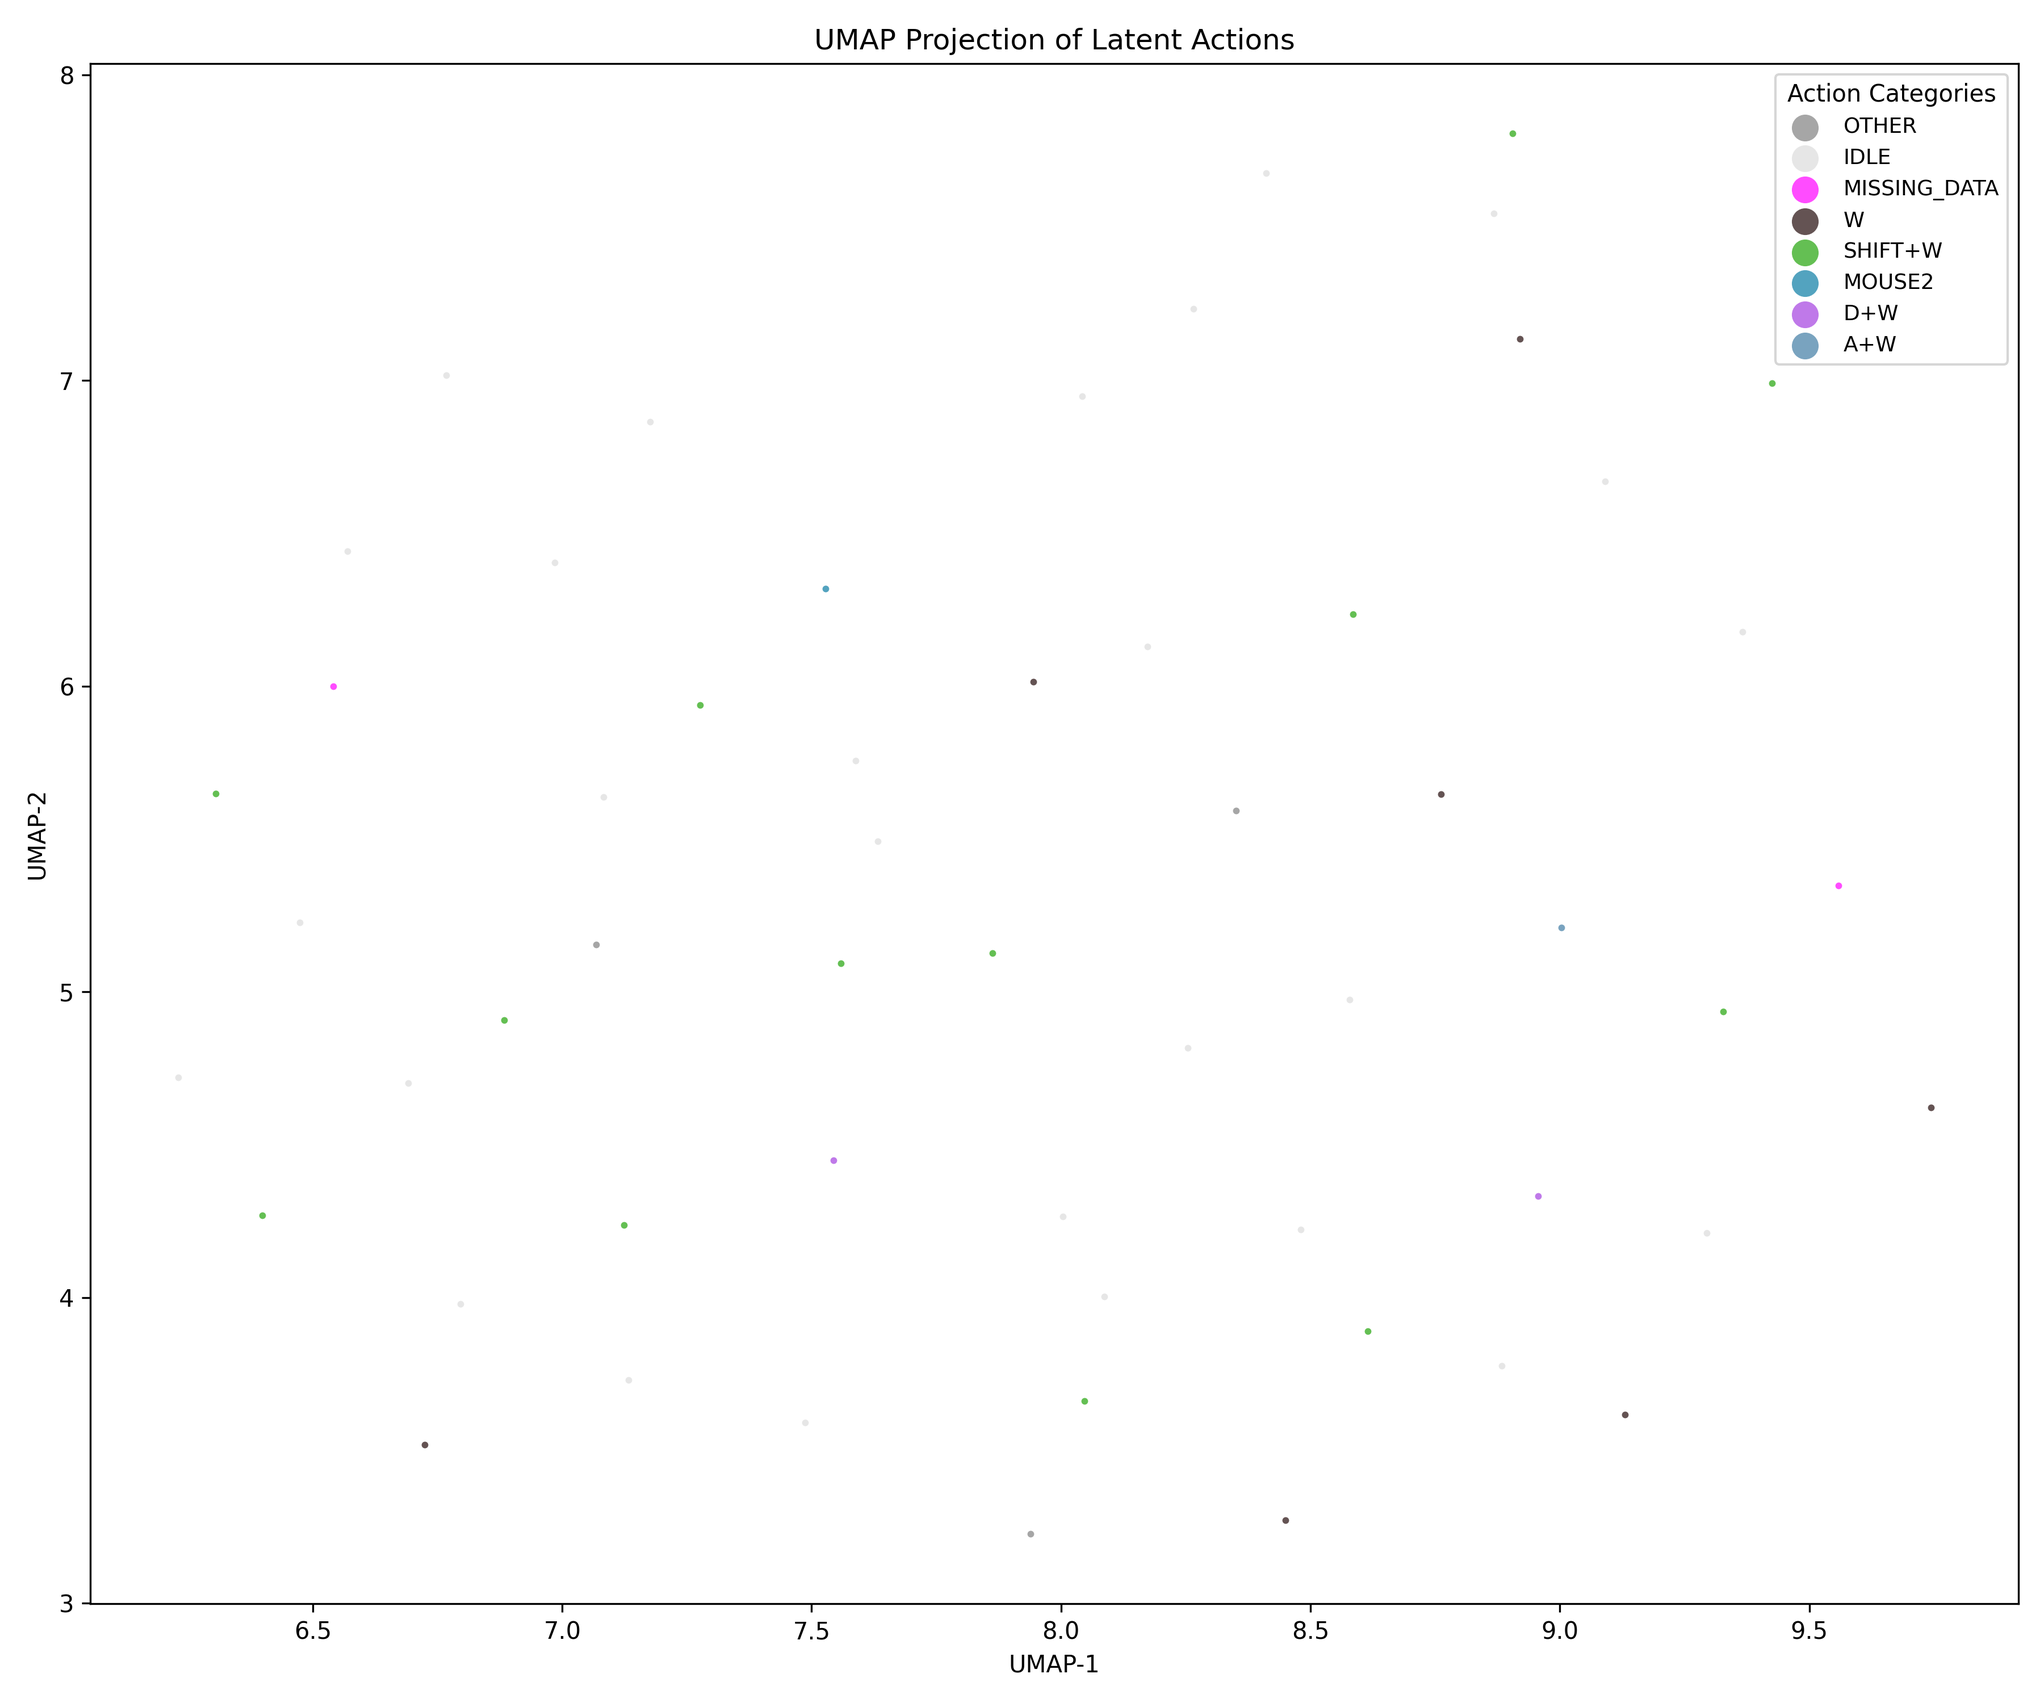
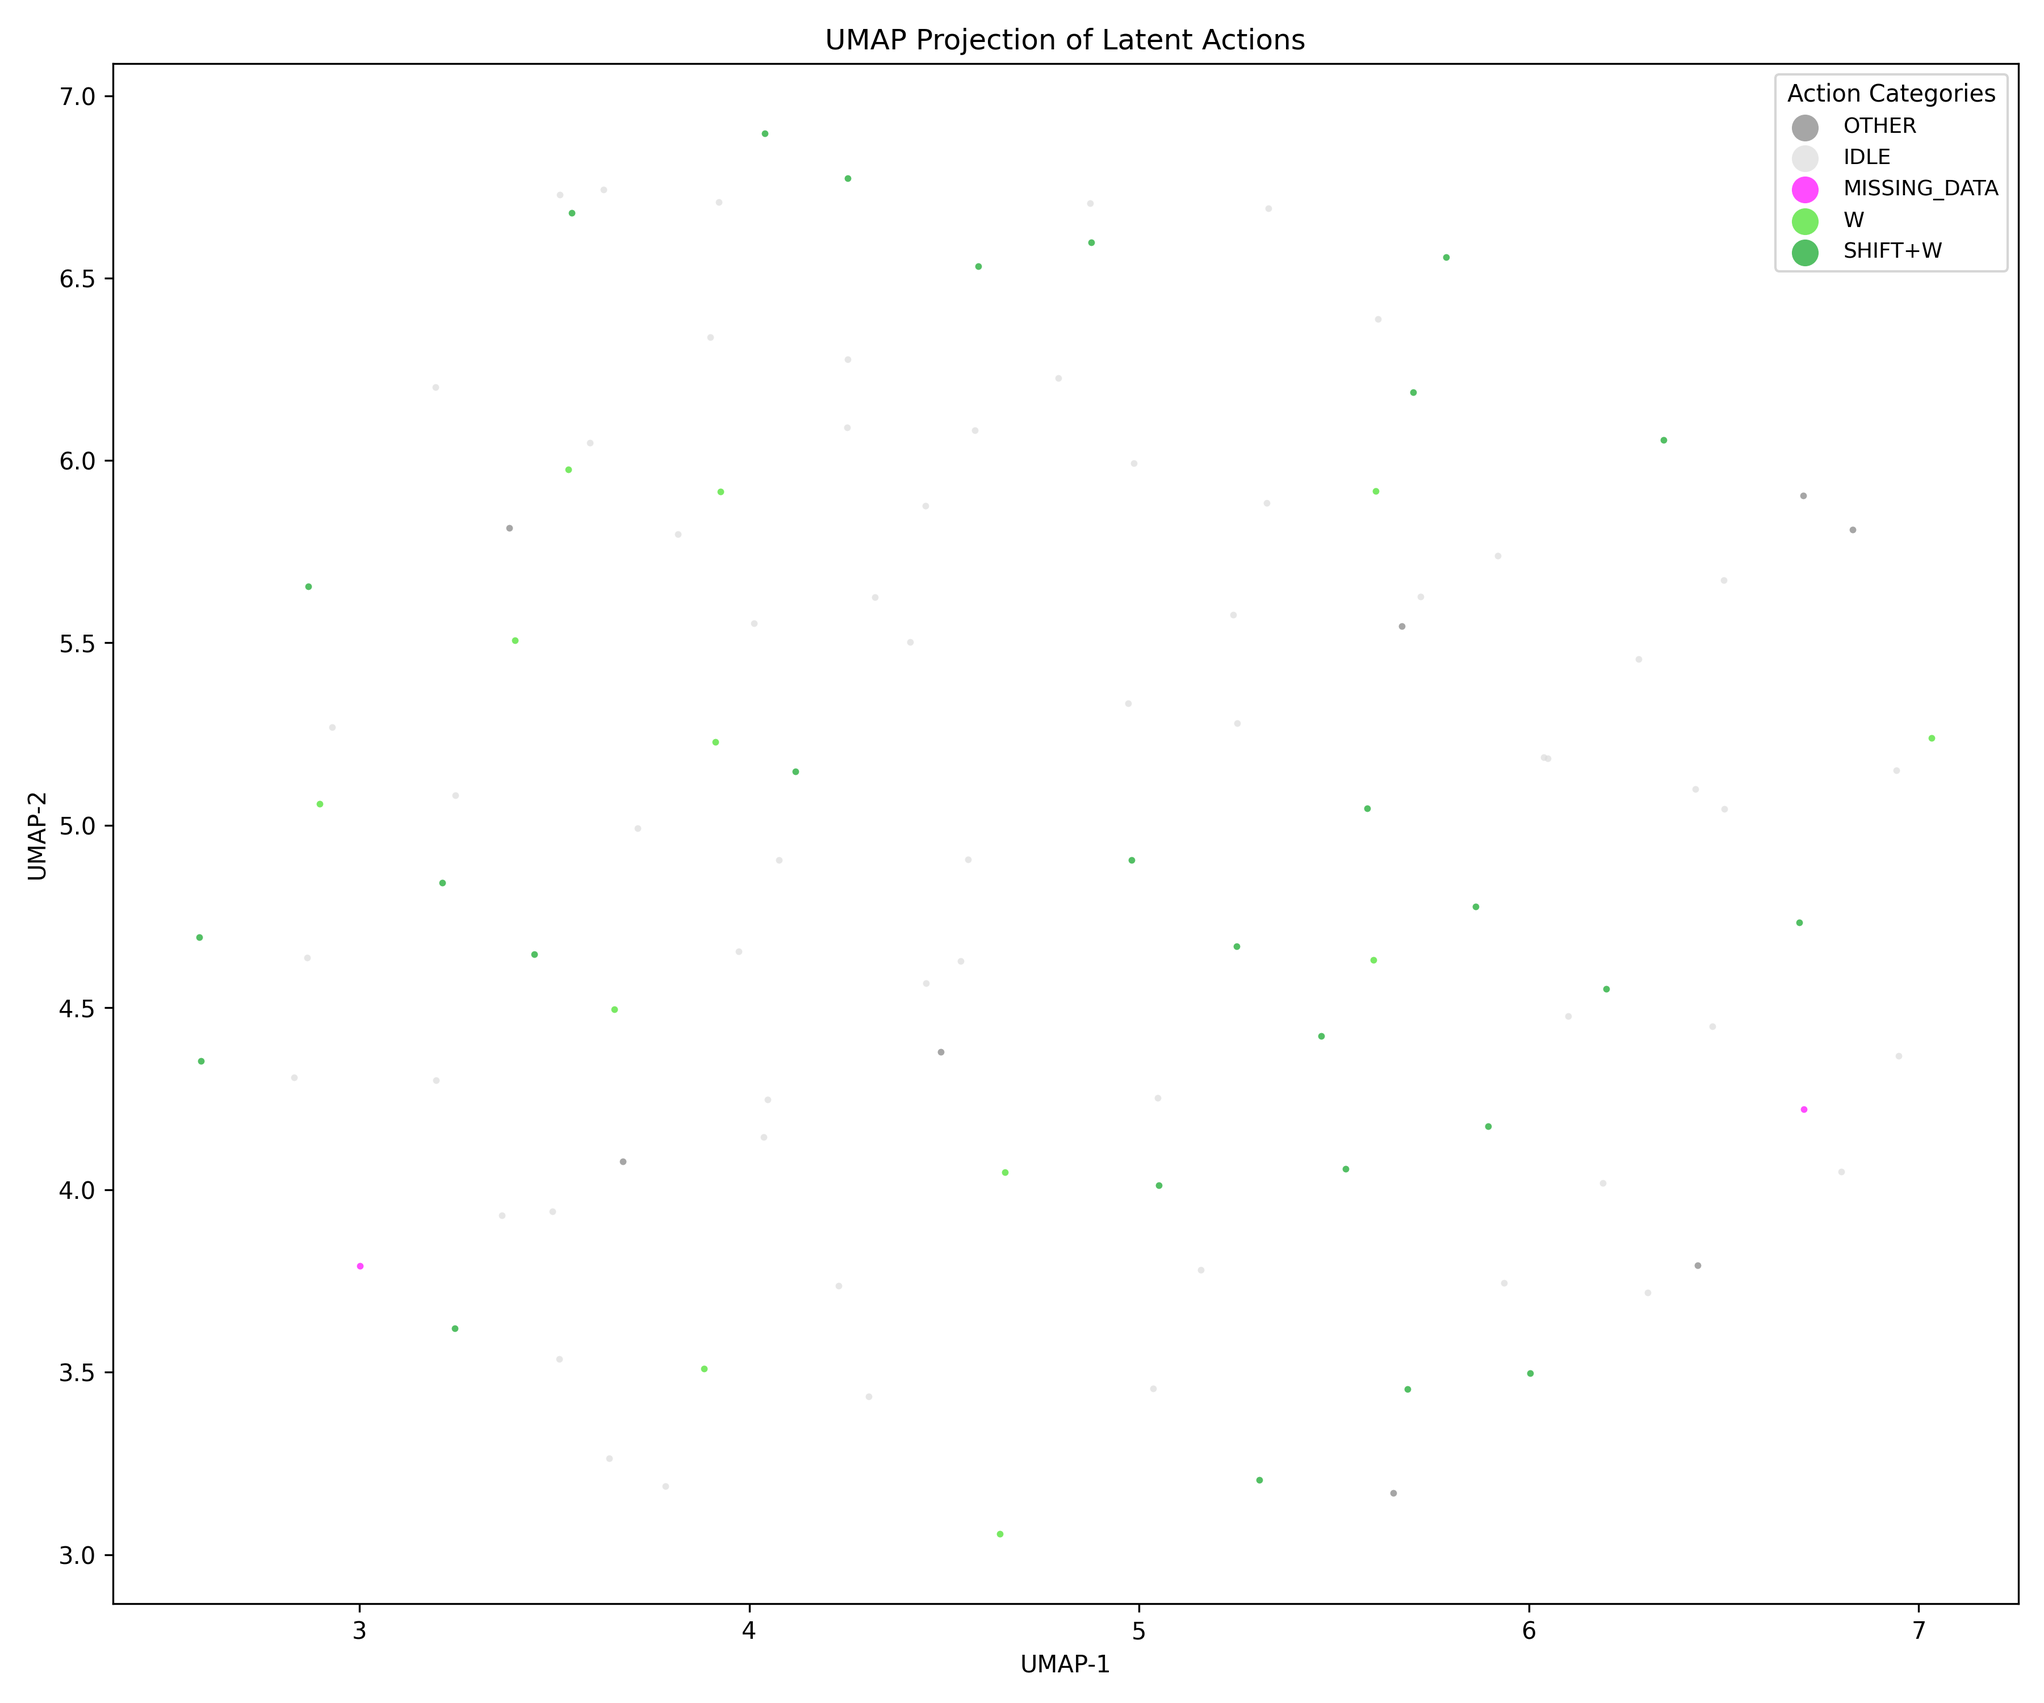
1x

diff --git a/latent_action_models/trainers/train.py b/latent_action_models/trainers/train.py
@@ -207,7 +207,7 @@ class Trainer_LatentActionModel(BaseTrainer):
             if self.should_log:      self.log_step(info)
             if self.should_save:     self.save_checkpoint(self.ckpt_dir / self.save_path)
             if self.should_validate: 
-                try: self.validate()
+                try: self.validate_simple()
                 except Exception as e:
                     print(f'Validation failed')
                     import traceback
@@ -224,6 +224,83 @@ class Trainer_LatentActionModel(BaseTrainer):
 
         self.save_checkpoint(self.ckpt_dir / self.save_path)
         return
+
+    @torch.no_grad()
+    def validate_simple(self) -> None:
+        model: LatentActionModel    = self._model_unwrapped()
+        num_samples_umap            = self.cfg.val_num_samples_umap
+        num_samples_recon           = self.cfg.val_num_samples_recon
+
+        # -- Simplified data collection --
+        num_processed_umap_samples  = 0
+        _more_umap = lambda: num_processed_umap_samples < num_samples_umap
+        num_processed_recon_samples = 0
+        _more_recon = lambda: num_processed_recon_samples < num_samples_recon
+        
+        latent_actions_list_bn1d = []
+        recon_videos_list_bnchw = []
+
+        while _more_umap() or _more_recon():
+            # REMOVED: No longer need paths or start indices from the batch
+            video_bnchw, _, _ = self.format_batch()
+            
+            if _more_umap():
+                action_info = model.encode_to_actions(video_bnchw)
+                latent_actions_list_bn1d.append(action_info['mean_bn1d'])
+                num_umap_samples_in_batch = action_info['mean_bn1d'].shape[0] * action_info['mean_bn1d'].shape[1]
+                num_processed_umap_samples += num_umap_samples_in_batch
+
+            if _more_recon():
+                recon_videos_list_bnchw.append(video_bnchw[:num_samples_recon, ::])
+                num_recon_samples_in_batch = video_bnchw.shape[0]
+                num_processed_recon_samples += num_recon_samples_in_batch
+
+        print(f"[rank {self.rank}] validation data collected")
+
+        if self._wandb_enabled:
+            # -- Gather tensors from all GPUs --
+            latent_actions_n1d = torch.cat(latent_actions_list_bn1d, dim=0)
+            latent_actions_n1d = gather_to_rank(latent_actions_n1d, dst=0, dim=0, cat=True)
+
+            recon_videos_bnchw = torch.cat(recon_videos_list_bnchw, dim=0)
+            lam_outputs = model.forward(recon_videos_bnchw)
+            condition_video_bnchw = gather_to_rank(lam_outputs["condition_video_bnchw"], dst=0, dim=0, cat=True)
+            recon_video_bnchw = gather_to_rank(lam_outputs["reconstructed_video_bnchw"], dst=0, dim=0, cat=True)
+            gt_video_bnchw = gather_to_rank(lam_outputs["groundtruth_video_bnchw"], dst=0, dim=0, cat=True)
+
+            if self.rank == 0:
+                # --- SIMPLIFIED UMAP PLOTTING ---
+                
+                # 1. Get the 2D UMAP embedding (assuming a simplified umap_visualization helper)
+                umap_embed_n2, _ = umap_visualization(latent_actions_n1d)
+
+                # 2. Create a wandb.Table with just the coordinates
+                umap_table = wandb.Table(columns=['umap_x', 'umap_y'])
+                for x, y in umap_embed_n2:
+                    umap_table.add_data(x, y)
+                
+                # 3. Create a scatter plot object from the table
+                scatter_plot = wandb.plot.scatter(
+                    umap_table, 'umap_x', 'umap_y', title=f"UMAP Visualization (Step {self.global_step})"
+                )
+
+                # --- Reconstruction table (unchanged) ---
+                video_table = wandb.Table(columns=["conditioning", "predicted", "ground_truth"])
+                for cond, recon, gt in zip(condition_video_bnchw, recon_video_bnchw, gt_video_bnchw):
+                    video_table.add_data(as_wandb_video(cond,  "Conditioning"),
+                                        as_wandb_video(recon, "Predicted next-frame"),
+                                        as_wandb_video(gt,    "Ground-truth next-frame"))
+
+                # --- Simplified logging ---
+                if self._wandb_run:
+                    print(f"[rank {self.rank}] logging to wandb")
+                    wandb.log({
+                        "UMAP Scatter Plot": scatter_plot,
+                        "Reconstruction": video_table,
+                    }, step=self.global_step)
+
+        print(f"[rank {self.rank}] validation done")
+        barrier()
 
     @torch.no_grad()
     def validate(self) -> None:

diff --git a/latent_action_models/datasets/clip_pt_generator.py b/latent_action_models/datasets/clip_pt_generator.py
@@ -1,70 +1,61 @@
 import torch
-import decord
-import ray # NEW: Import Ray
+from torchcodec.decoders import VideoDecoder
 from pathlib import Path
 from tqdm import tqdm
+import traceback
 
-# Set the target directory containing your .mkv files
-_VIDEO_DIR = Path('/mnt/data/shahbuland/video-proc-2/datasets/gta_nas')
 
-# --- NEW: Define the work for a single video as a Ray remote function ---
-@ray.remote
-def convert_single_video(video_path: Path) -> str:
+def convert_single_video_gpu_chunked(
+    video_path: Path,
+    device: str = "cuda:0"
+) -> str:
     """
-    Converts a single .mkv file to a .pt file.
-    This function will be executed in parallel by Ray workers.
+    Converts a single .mkv file to a .pt file using the GPU for decoding,
+    processing in chunks to conserve GPU memory.
     """
-    # This setup is done once per worker process
-    decord.bridge.set_bridge('torch')
-    ctx = decord.cpu(0)
-
     output_path = video_path.with_suffix('.pt')
 
     if output_path.exists():
         return f"SKIPPED: {video_path.name} already exists."
 
     try:
-        video_reader = decord.VideoReader(str(video_path), ctx=ctx)
-        all_frames = video_reader.get_batch(range(len(video_reader)))
-        torch.save(all_frames, output_path)
+        reader = VideoDecoder(str(video_path), 'cuda')
+        # num_frames = len(reader)
+        
+        cpu_chunks = []
+        
+        # MODIFIED: Added tqdm wrapper around the frame reader
+        # This will show a progress bar for the frames within this single video.
+        for frame in tqdm(reader, desc=f"  -> Decoding {video_path.name}", leave=False):
+            gpu_frame = frame['data']
+            cpu_chunks.append(gpu_frame.cpu())
+
+        video_tensor = torch.stack(cpu_chunks).to(torch.uint8)
+        torch.save(video_tensor, output_path)
+        
         return f"SUCCESS: Converted {video_path.name}"
-    except Exception as e:
-        return f"ERROR: Failed to convert {video_path.name}. Reason: {e}"
+    except Exception:
+        # ... (error handling is the same) ...
+        print(f"\nERROR: Failed to convert {video_path.name}. Full traceback below:")
+        traceback.print_exc()
+        return f"ERROR: Failed to convert {video_path.name}."
 
 
-def convert_videos_to_pt_parallel(directory: Path):
-    """
-    Finds all .mkv files and converts them to .pt in parallel using Ray.
-    """
+def convert_videos_serially(directory: Path):
     mkv_files = sorted(list(directory.glob("*.mkv")))
     if not mkv_files:
         print(f"WARNING: No .mkv files found in {directory}")
         return
 
-    print(f"Found {len(mkv_files)} .mkv files to process in {directory}")
+    print(f"Found {len(mkv_files)} .mkv files to process serially.")
 
-    # --- NEW: Launch all conversion tasks in parallel ---
-    # .remote() immediately returns a "future" (ObjectRef) and doesn't block
-    futures = [convert_single_video.remote(path) for path in mkv_files]
-    
-    # --- NEW: Wait for tasks to complete and show progress ---
-    # We iterate through the futures and call ray.get() on each.
-    # This blocks until the result for that specific future is ready.
-    for future in tqdm(futures, desc="Converting .mkv to .pt"):
-        # You can optionally print the result of each task as it finishes
-        # print(ray.get(future))
-        ray.get(future) # This waits for the task to complete
+    for path in tqdm(mkv_files, desc="Converting .mkv to .pt"):
+        # Call the renamed function
+        status = convert_single_video_gpu_chunked(path)
 
     print("\nConversion process finished.")
 
 
 if __name__ == "__main__":
-    # --- NEW: Initialize Ray ---
-    # By default, Ray will try to use all available cores.
-    ray.init()
-
-    try:
-        convert_videos_to_pt_parallel(_VIDEO_DIR)
-    finally:
-        # --- NEW: Shutdown Ray ---
-        ray.shutdown()
+    _VIDEO_DIR = Path('/mnt/data/shahbuland/video-proc-2/datasets/gta_nas')
+    convert_videos_serially(_VIDEO_DIR)

diff --git a/latent_action_models/datasets/robotics_1x_dataset.py b/latent_action_models/datasets/robotics_1x_dataset.py
@@ -1,0 +1,93 @@
+import  json
+import  torch
+import  typing as tp
+from    pathlib import Path
+from    typing import Literal
+from    torch.utils.data    import Dataset, IterableDataset
+from    torchvision.io      import decode_image
+from    torchvision         import transforms
+from    toolz               import valfilter
+
+from latent_action_models.configs import DataConfig
+
+DATASET_ROOT = Path("/mnt") / "data" / "sami" / "1x_dataset" / "original"
+IMAGE_PATH   = Path("/mnt") / "data" / "sami" / "1x_dataset" / "data"
+
+class Robotics_1X_Dataset(Dataset):
+    def __init__(self, config: DataConfig) -> None:
+        pass
+
+    def __len__(self) -> int:
+        pass
+
+    def __getitem__(self, index: int) -> tp.Any:
+        pass
+
+
+class Robotics_1X_Dataset(IterableDataset):
+    def __init__(self,
+                config: DataConfig,
+                root: Path = IMAGE_PATH,
+                split: Literal['train', 'val'] = 'train'):
+        super().__init__()
+
+        self.config         = config
+        self.image_root     = root / split / 'images'
+        self.metadata_root  = root / split / 'metadata'
+
+        self.min_frames_per_episode  = config.num_frames
+        self.resolution              = config.resolution
+        self.resize_fn               = transforms.Resize(self.resolution)
+
+        self.all_metadata: list[dict]   = [
+            json.load(open(str(path)))
+            for path in self.metadata_root.glob('metadata_*.json')
+        ]
+
+        self.metadata: dict = {
+            meta['shard_idx']: meta for meta in self.all_metadata
+        } 
+        # NOTE turns out each metadata has a global episode, instead of a local one.
+        # e.g. metadata_0.json ends at episode 519, metadata_1.jsson starts at 520.
+        # This means we can randomly sample an episode, and then a frame number, and load.
+        self.episode_to_nframes = {
+            int(e): meta['num_frames_per_episode'][e]
+            for meta in self.all_metadata
+            for e in meta['num_frames_per_episode']
+        }
+        self.episode_to_nframes = valfilter(
+            self.episode_to_nframes,
+            lambda x: x >= self.min_frames_per_episode)
+        
+        self.episode_to_shard = {
+            e: meta['shard_idx']
+            for meta in self.all_metadata
+            for e in meta['episodes']
+            if e in self.episode_to_nframes
+        }
+
+        assert set(self.episode_to_shard) == set(self.episode_to_nframes)
+        print(f'Loaded metadata for {len(self.episode_to_shard)} episodes totaling {sum(self.episode_to_nframes.values())} frames')
+
+    def random_filenames(self) -> list[Path]:
+        import random
+        episode      = random.choice(list(self.episode_to_shard.keys()))
+        start_frame  = random.randint(0, self.episode_to_nframes[episode]-self.min_frames_per_episode)
+        end_frame    = start_frame + self.min_frames_per_episode
+        assert         end_frame <= self.episode_to_nframes[episode]
+        shard        = self.episode_to_shard[episode]
+
+        return [
+            self.image_root / f'rgb_sh{shard}_ep{episode}_fr{i}.jpeg'
+            for i in range(start_frame, end_frame)
+        ]
+
+    def get_random_video(self) -> tuple[torch.Tensor, type(None), type(None)]:
+        filenames   = self.random_filenames()
+        images      = [decode_image(str(filename.absolute())) for filename in filenames]
+        images      = [self.resize_fn(image) for image in images]
+        video_nchw  = torch.stack(images)
+        return video_nchw, None, None
+
+    def __iter__(self):
+        while True: yield self.get_random_video()

diff --git a/latent_action_models/datasets/dataloaders.py b/latent_action_models/datasets/dataloaders.py
@@ -10,6 +10,7 @@ from    latent_action_models.configs                            import DataConfi
 from    latent_action_models.datasets.clip_metadata_generator   import _dataset_clips, ClipEntry
 from    latent_action_models.utils                              import init_distributed
 from    latent_action_models.datasets.decord_dataset            import DecordVideoDataset
+from    latent_action_models.datasets.robotics_1x_dataset       import Robotics_1X_Dataset
 
 CLIPS_BASE_DIR = Path.cwd() / 'latent_action_models' / 'datasets' / 'indices' 
 
@@ -53,6 +54,10 @@ def _dataset(dataset: Literal["call_of_duty"], config: DataConfig, rank: int = 0
 
     return DecordVideoDataset(clips, resolution=config.resolution, num_frames=config.num_frames)
 
+@multimethod
+def _dataset(dataset: Literal["1x_robotics"], config: DataConfig, rank: int = 0, world: int = 1) -> Dataset:
+    return Robotics_1X_Dataset(config)
+
 
 def create_dataloader(config: DataConfig) -> DataLoader:
     rank, world, _  = init_distributed()
@@ -63,7 +68,7 @@ def create_dataloader(config: DataConfig) -> DataLoader:
 
 if __name__ == "__main__":
     data            = DataConfig().from_dict({
-        "dataset_name": "gta_4",
+        "dataset_name": "1x_robotics",
         "resolution": 256,
         "num_frames": 2,
         "batch_size": 8,
